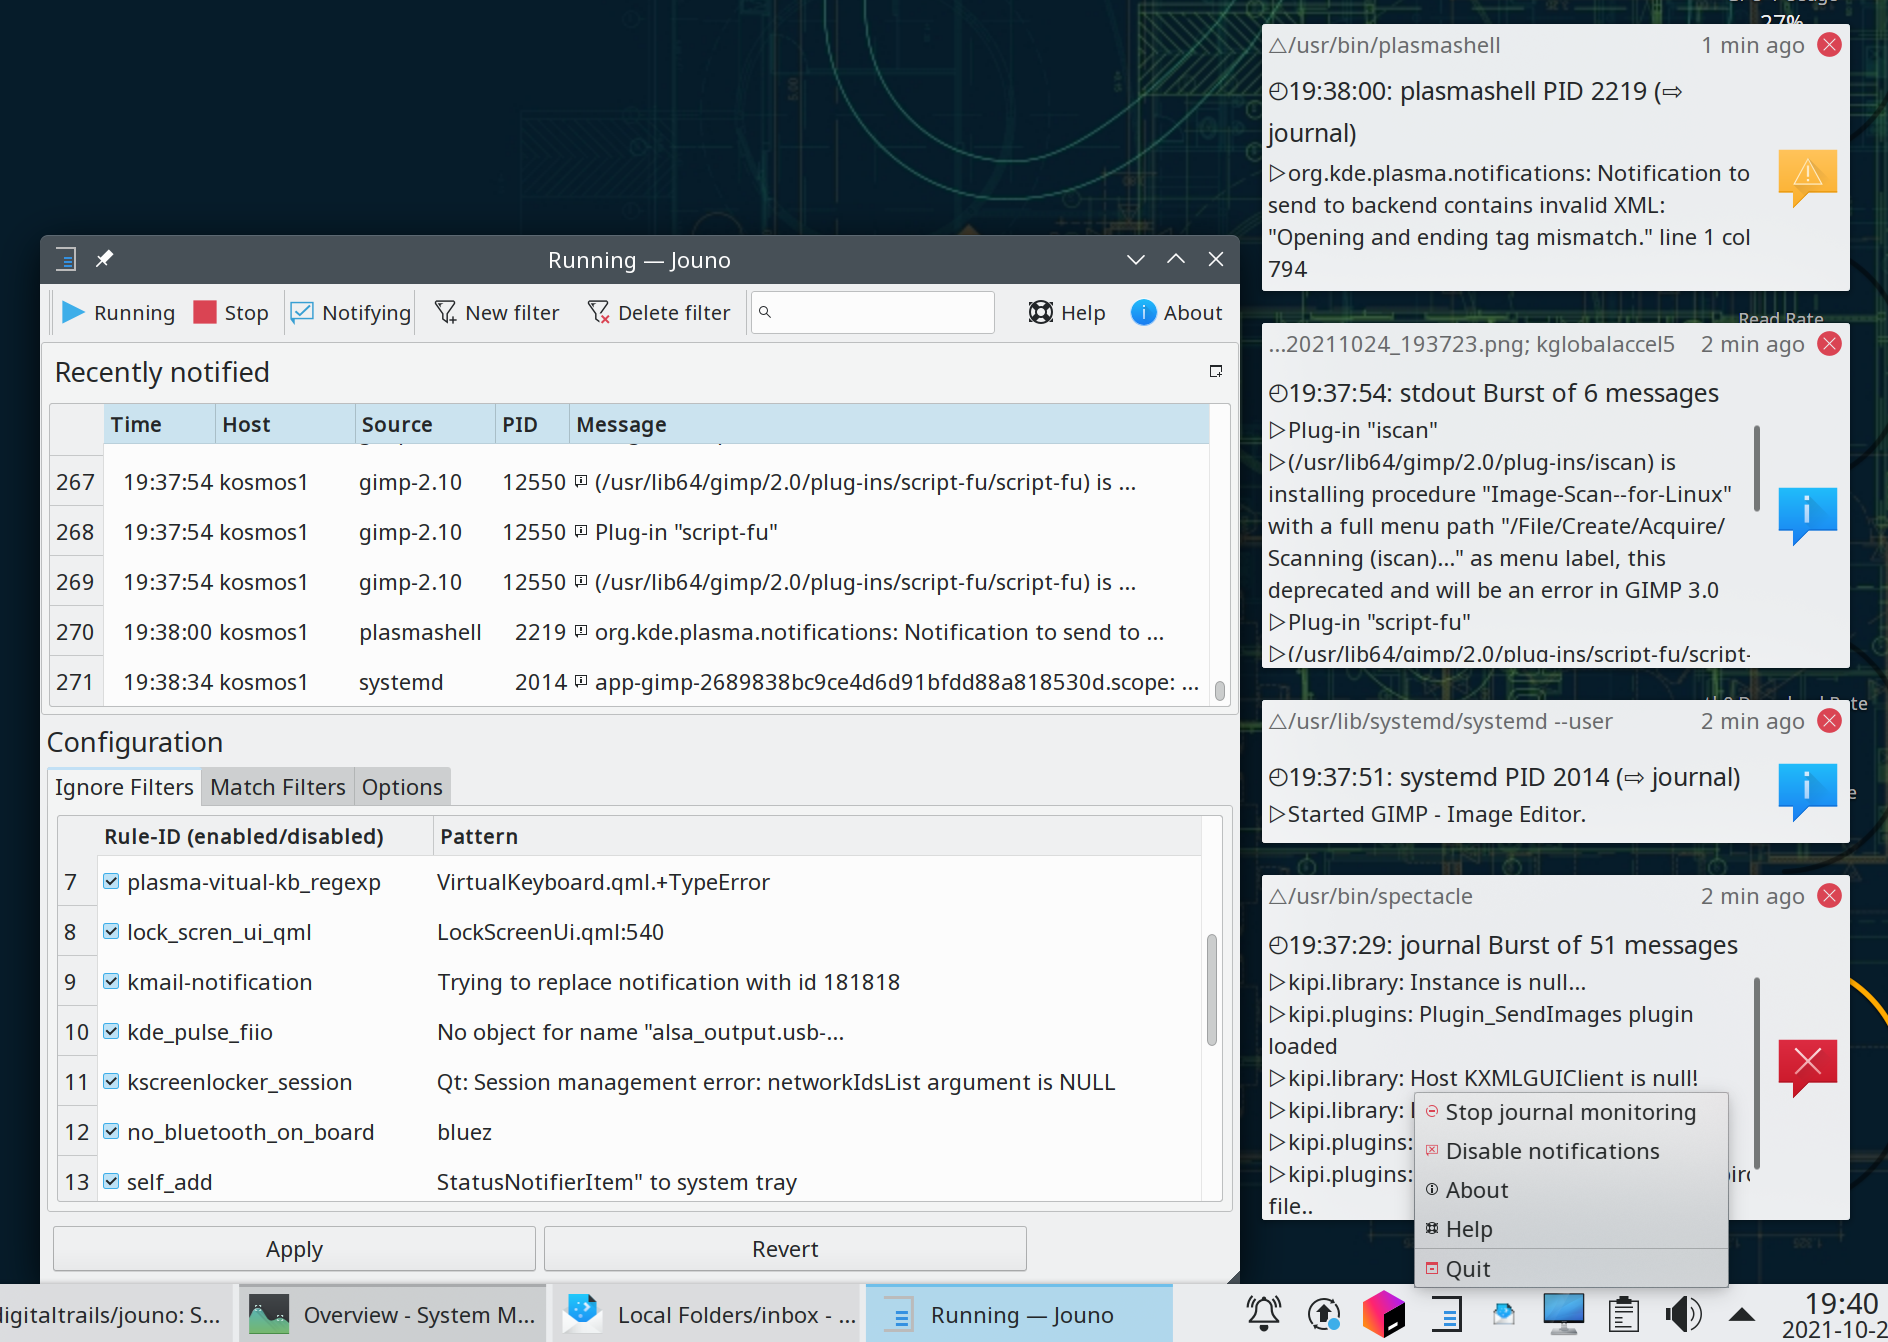
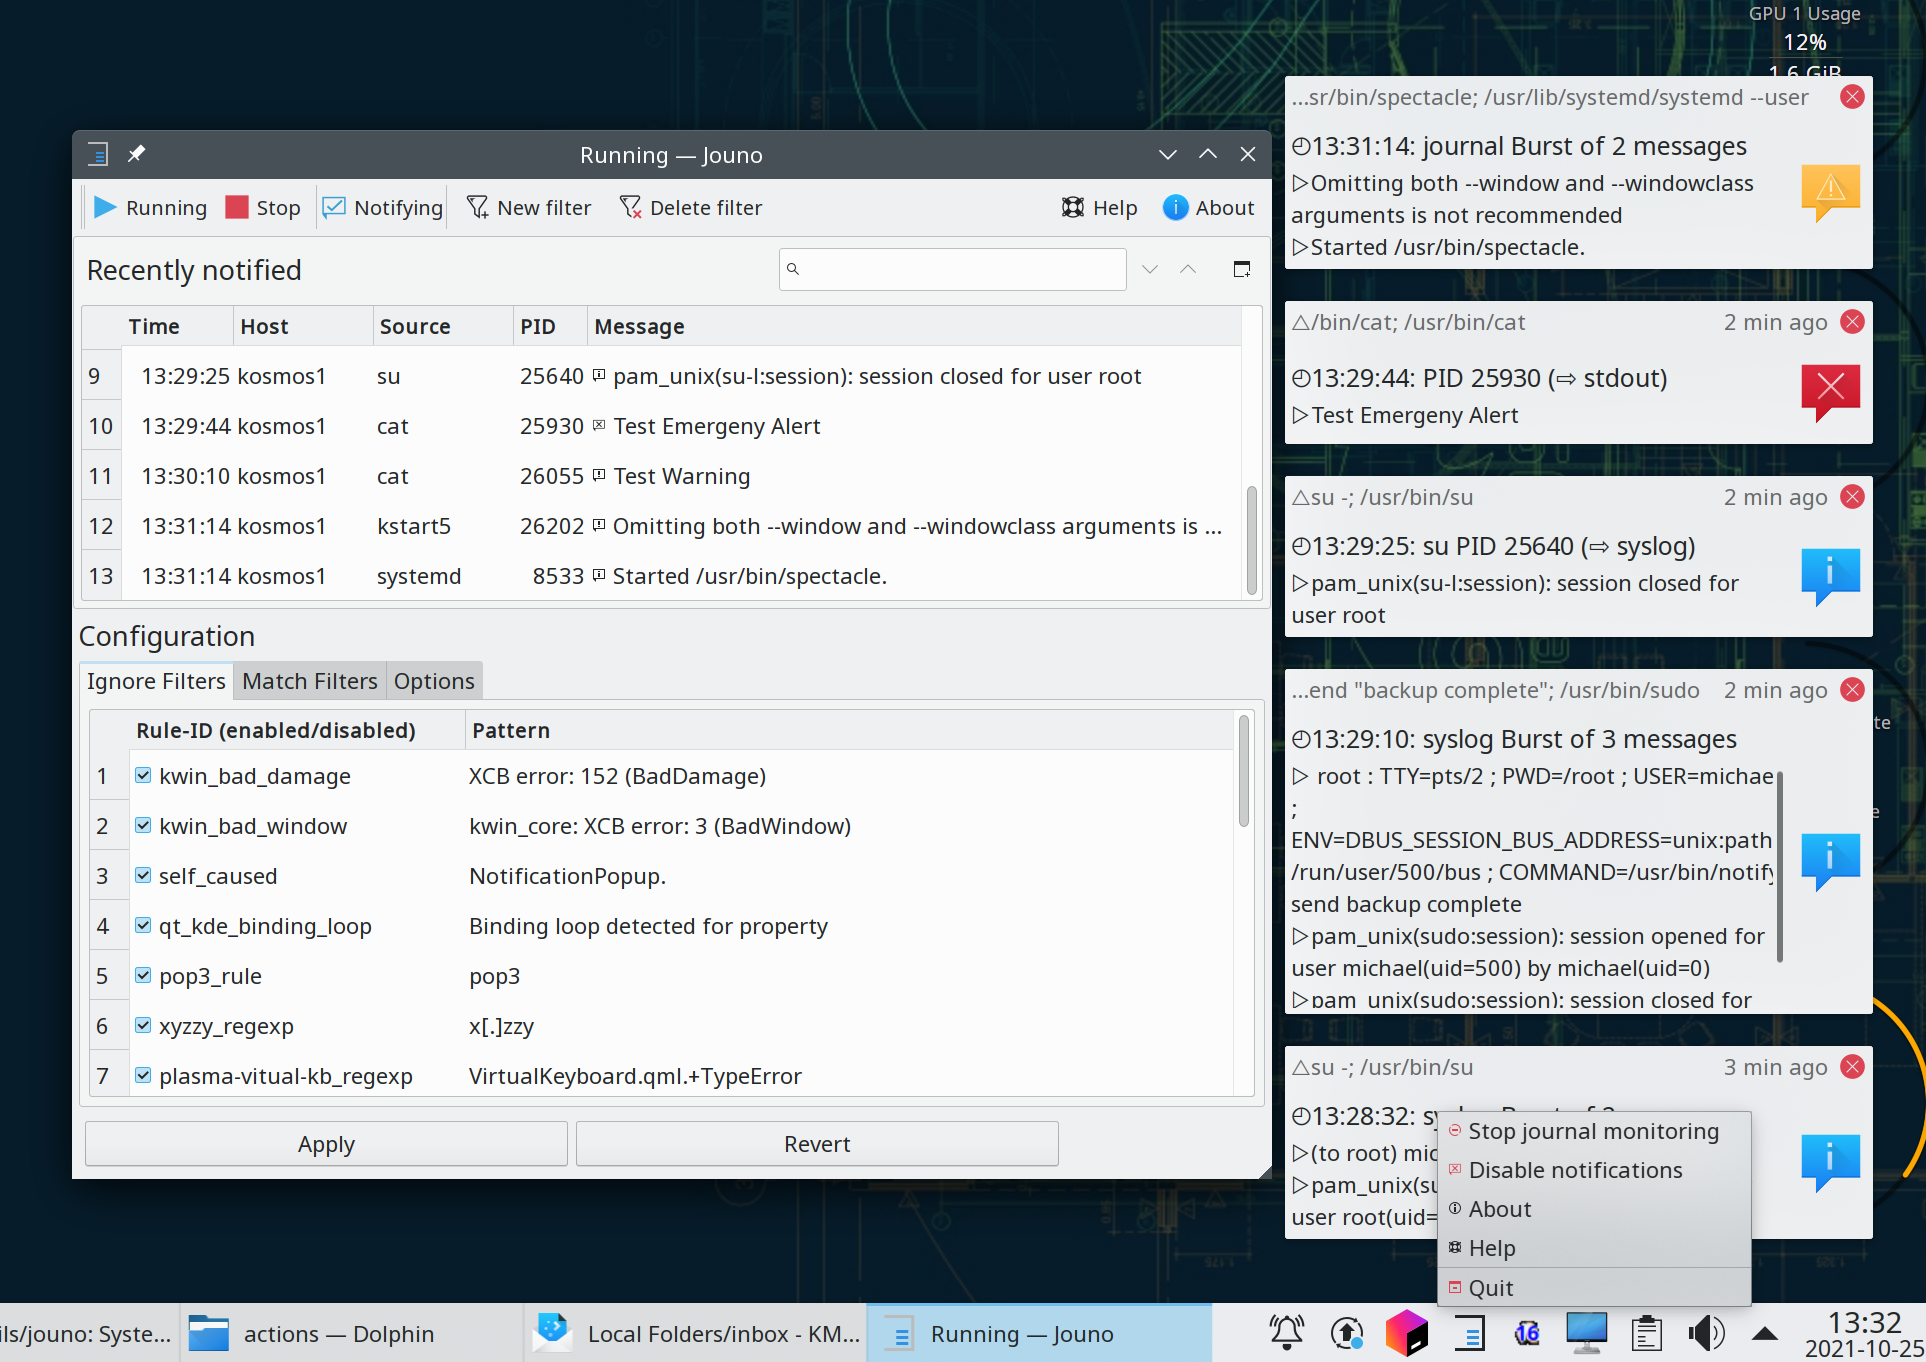
Scrolling through the search matched selection is working.

diff --git a/jouno.py b/jouno.py
@@ -1432,6 +1432,8 @@ class MainWindow(QMainWindow):
                 # Also try to cope with the tray not being at the bottom right of the screen.
                 x = p.x() - wg.width() if p.x() > wg.width() else p.x()
                 y = p.y() - wg.height() if p.y() > wg.height() else p.y()
+                x -= 200
+                y -= 150
                 self.setGeometry(x, y, wg.width(), wg.height())
                 self.show()
                 # Attempt to force it to the top with raise and activate
@@ -1451,7 +1453,7 @@ class MainWindow(QMainWindow):
             QProcess.startDetached(app.arguments()[0], app.arguments()[1:])
 
 
-class JounalMainWindow(QMainWindow):
+class JournalMainWindow(QMainWindow):
     """
     I wanted an undockable component, but one with normal window decorations.
     So I've taken over the undocking process and reparent the floating window onto
@@ -1494,7 +1496,7 @@ class JournalPanel(QDockWidget):
 
         self.setFloating(False)
         self.setFeatures(QDockWidget.DockWidgetFloatable | QDockWidget.DockWidgetMovable)
-        self.tmp_main_window = JounalMainWindow(journal_widget=self, top_main_window=parent)
+        self.tmp_main_window = JournalMainWindow(journal_widget=self, top_main_window=parent)
 
         self.table_view = JournalTableView(journal_watcher_task, max_journal_entries=max_journal_entries)
 
@@ -1515,22 +1517,28 @@ class JournalPanel(QDockWidget):
         def search_entries(text: str) -> None:
             self.scrolled_to_selected = None
             self.search_select_journal(text)
+            go_next_button.setEnabled(self.scrolled_to_selected is not None)
+            go_previous_button.setEnabled(self.scrolled_to_selected is not None)
             search_input.setFocus()
 
         search_input = QLineEdit()
         search_input.setFixedWidth(350)
         search_input.addAction(get_icon(ICON_SEARCH_JOURNAL), QLineEdit.LeadingPosition)
-        search_input.setToolTip(tr("Incrementally search and select journal entries.\nSearches all fields."))
+        search_input.setToolTip(tr("Incrementally search journal entries.\nSearches all fields."))
         search_input.textChanged.connect(search_entries)
         title_layout.addWidget(search_input)
         self.scrolled_to_selected = None
 
         go_next_button = transparent_button(QPushButton(get_icon(ICON_GO_NEXT), '', self))
         go_next_button.clicked.connect(partial(self.scroll_selected, 1))
+        go_next_button.setEnabled(False)
+        go_next_button.setToolTip(tr("Next match."))
         title_layout.addWidget(go_next_button)
 
         go_previous_button = transparent_button(QPushButton(get_icon(ICON_GO_PREVIOUS), '', self))
         go_previous_button.clicked.connect(partial(self.scroll_selected, -1))
+        go_previous_button.setToolTip(tr("Previous match."))
+        go_previous_button.setEnabled(False)
         title_layout.addWidget(go_previous_button)
 
         spacer = QWidget()
@@ -1575,10 +1583,14 @@ class JournalPanel(QDockWidget):
             for row_num in range(model.rowCount()):
                 journal_entry = model.get_journal_entry(row_num)
                 # Assume case insensitive if all text is in lower case.
-                entry_text = str(journal_entry).lower() if text.islower() else str(journal_entry)
-                if text in entry_text:
+                # Use an easy a format that is easy to pattern match: "'key=value', 'key=value'"
+                fields_str = ', '.join((f"'{key}={str(value)}'" for key, value in journal_entry.items()))
+                if text in fields_str.lower() if text.islower() else fields_str:
                     self.table_view.selectRow(row_num)
-                    self.table_view.scrollTo(model.index(row_num, 0))
+                    if self.scrolled_to_selected is None:
+                        self.scrolled_to_selected = model.index(row_num, 0)
+        if self.scrolled_to_selected is not None:
+            self.table_view.scrollTo(self.scrolled_to_selected)
                     #self.table_view.clearFocus()
 
     def scroll_selected(self, direction: int):
@@ -1601,8 +1613,7 @@ class JournalTableView(QTableView):
 
     def __init__(self, journal_watcher_task: JournalWatcherTask, max_journal_entries: int):
         super().__init__()
-        self.setToolTip(tr("Double click to view the complete journal entry.") + "\n" +
-                        tr("Control-C to copy a selected field's text."))
+        self.setToolTip(tr("Double click the row's message icon to view the complete journal entry."))
         self.setModel(JournalTableModel(max_journal_entries=max_journal_entries))
         self.max_entries = 100
         self.setDragDropOverwriteMode(False)
